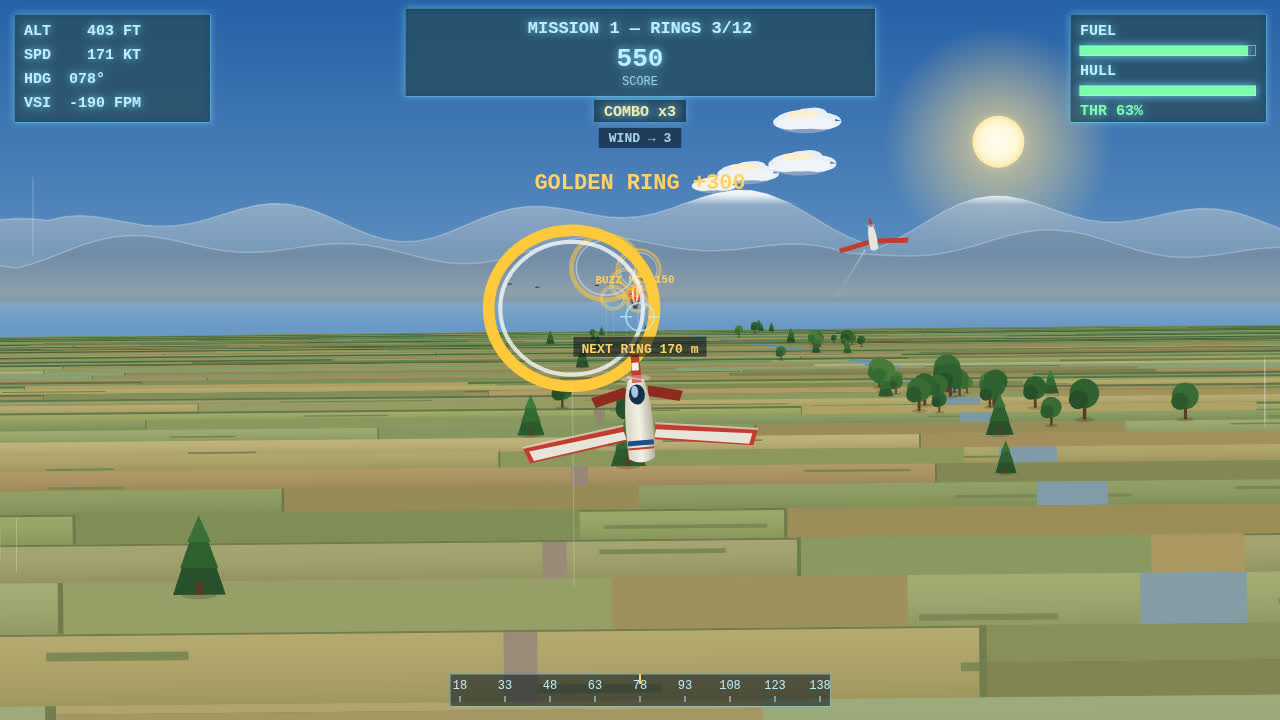
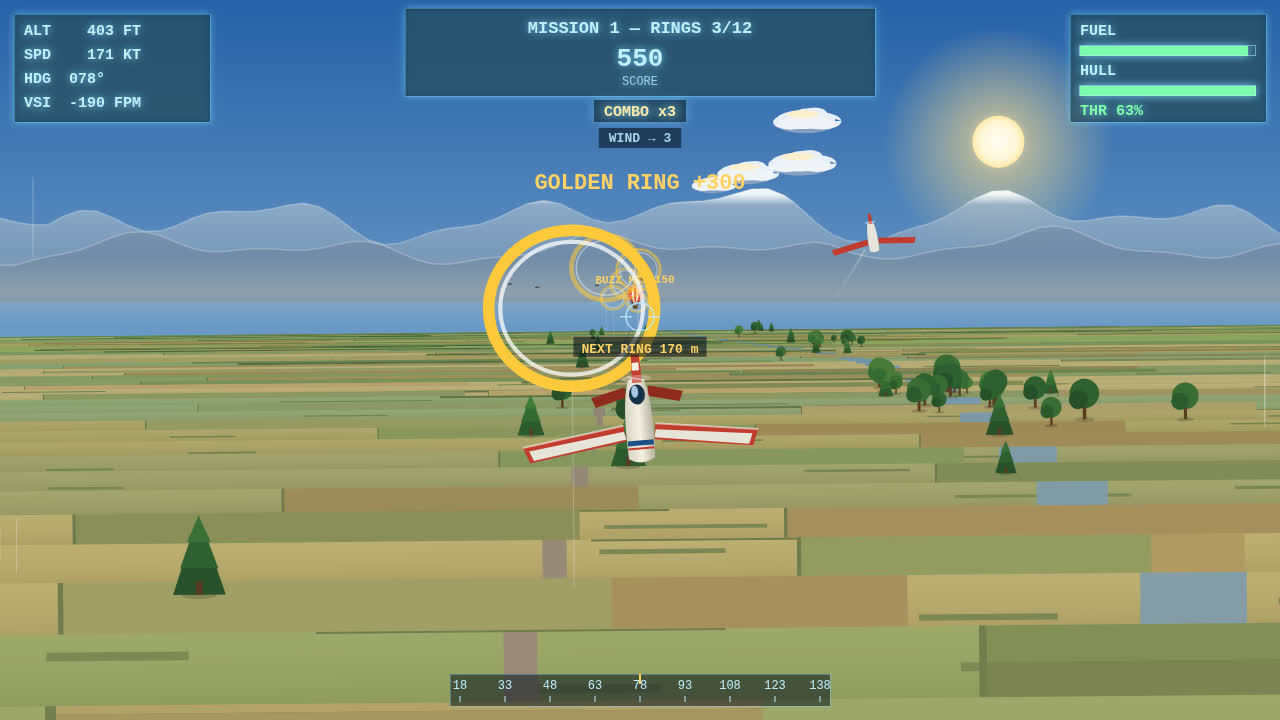
Sky Courier round 8: repo-knowledge visual fixes — runway asphalt stays cool grey (warm haze mix turned the near strip brown, like dirt), asphalt aggregate dashes texture the foreground where tyre marks diverge off-screen, repair-patch height clamped to 60 px (was a long dark slab on tall near bands

diff --git a/game/src/render.js b/game/src/render.js
@@ -92,9 +92,20 @@ export function createRenderer(canvas) {
     ctx.beginPath();
     ctx.arc(sx, sy, dusk ? 28 : 26, 0, Math.PI * 2);
     ctx.fill();
+    // Stars at dusk: the violet sky over the landing is empty — a few
+    // early stars give it depth. Seeded by index, static on screen.
+    if (dusk) {
+      for (let k = 0; k < 48; k += 1) {
+        const sx2 = hash(k * 13 + 1) * w;
+        const sy2 = hash(k * 29 + 7) * h * 0.32;
+        const sa = 0.25 + hash(k * 7 + 3) * 0.6;
+        ctx.fillStyle = `rgba(255,255,255,${sa})`;
+        ctx.fillRect(sx2, sy2, 1.4, 1.4);
+      }
+    }
   }
 
-  function drawMountains(w, h, horizonY, camZ, camX, layer) {
+  function drawMountains(w, h, horizonY, camZ, camX, layer, dusk) {
     const base = layer === 0 ? 66 : 40;
     const amp = layer === 0 ? 34 : 22;
     const speed = layer === 0 ? 0.05 : 0.11;
@@ -103,7 +114,19 @@ export function createRenderer(canvas) {
     // A vertical gradient (light crest, darker base) gives the range
     // volume instead of one flat fill.
     const mg = ctx.createLinearGradient(0, horizonY - 120, 0, horizonY + 2);
-    if (layer === 0) {
+    if (dusk) {
+      // At dusk the ridge is a dark silhouette against the orange
+      // horizon, not a pale blue wave: the day-lit colours wash out
+      // against the violet sky (the land shot's ridge read as a pale
+      // curtain, not mountains).
+      if (layer === 0) {
+        mg.addColorStop(0, 'rgba(108,96,150,0.85)');
+        mg.addColorStop(1, 'rgba(74,64,116,0.7)');
+      } else {
+        mg.addColorStop(0, 'rgba(88,78,128,0.8)');
+        mg.addColorStop(1, 'rgba(62,54,100,0.68)');
+      }
+    } else if (layer === 0) {
       mg.addColorStop(0, 'rgba(172,192,214,0.8)');
       mg.addColorStop(1, 'rgba(110,136,162,0.62)');
     } else {
@@ -115,7 +138,12 @@ export function createRenderer(canvas) {
     const ridge = [];
     for (let x = 0; x <= w; x += 16) {
       const wx = x + camZ * speed * 10 - camX * (layer === 0 ? 2 : 5);
-      const y = horizonY - base - amp * Math.abs(Math.sin(wx * 0.004) * 0.7 + Math.sin(wx * 0.011 + 2) * 0.5) - amp * 0.4 * Math.sin(wx * 0.027 + 1);
+      // A higher-frequency ripple on top of the rolling wave: the old
+      // ridge was a smooth sine, so the silhouette was two gentle
+      // humps with no character. The small secondary peaks give the
+      // range a shape — and the snow line caps them, so the caps vary
+      // instead of reading as identical white pills.
+      const y = horizonY - base - amp * Math.abs(Math.sin(wx * 0.004) * 0.7 + Math.sin(wx * 0.011 + 2) * 0.5) - amp * 0.4 * Math.sin(wx * 0.027 + 1) - amp * 0.18 * Math.sin(wx * 0.055 + 4);
       ridge.push([x, y]);
     }
     ctx.beginPath();
@@ -125,8 +153,9 @@ export function createRenderer(canvas) {
     ctx.closePath();
     ctx.fill();
     // Lit ridge edge: a faint highlight along the crest so the range
-    // has a sunlit side instead of one flat fill.
-    ctx.strokeStyle = 'rgba(255,255,255,0.25)';
+    // has a sunlit side instead of one flat fill. Warm at dusk — the
+    // setting sun lights the crest orange, not white.
+    ctx.strokeStyle = dusk ? 'rgba(255,190,140,0.3)' : 'rgba(255,255,255,0.25)';
     ctx.lineWidth = 1.5;
     ctx.beginPath();
     for (let k = 0; k < ridge.length; k += 1) {
@@ -148,9 +177,17 @@ export function createRenderer(canvas) {
       // land shots because their lower edge was a hard horizontal line).
       const snowLine = horizonY - 95;
       const sg = ctx.createLinearGradient(0, horizonY - 125, 0, snowLine);
-      sg.addColorStop(0, 'rgba(255,255,255,0.95)');
-      sg.addColorStop(0.65, 'rgba(255,255,255,0.85)');
-      sg.addColorStop(1, 'rgba(255,255,255,0)');
+      // Warm at dusk: the sunset lights the snow, so the caps read
+      // pink-gold instead of cold white against the violet sky.
+      if (dusk) {
+        sg.addColorStop(0, 'rgba(255,214,170,0.95)');
+        sg.addColorStop(0.65, 'rgba(255,196,150,0.85)');
+        sg.addColorStop(1, 'rgba(255,190,140,0)');
+      } else {
+        sg.addColorStop(0, 'rgba(255,255,255,0.95)');
+        sg.addColorStop(0.65, 'rgba(255,255,255,0.85)');
+        sg.addColorStop(1, 'rgba(255,255,255,0)');
+      }
       ctx.fillStyle = sg;
       ctx.beginPath();
       let started = false;
@@ -467,13 +504,15 @@ export function createRenderer(canvas) {
   }
 
   function overlay(w, h, lines, accent, dy = 0) {
-    ctx.fillStyle = 'rgba(6,12,22,0.3)';
+    // Lighter than round 7's 0.3/0.82: more of the world shows through
+    // the panel, so the title shot reads as a game, not a dark card.
+    ctx.fillStyle = 'rgba(6,12,22,0.26)';
     ctx.fillRect(0, 0, w, h);
     const bw = Math.min(640, w - 60);
     const bh = 54 + lines.length * 30;
     const bx = (w - bw) / 2;
     const by = (h - bh) / 2 + dy;
-    ctx.fillStyle = 'rgba(8,18,30,0.82)';
+    ctx.fillStyle = 'rgba(8,18,30,0.76)';
     ctx.fillRect(bx, by, bw, bh);
     ctx.strokeStyle = accent;
     ctx.lineWidth = 2;
@@ -525,8 +564,8 @@ export function createRenderer(canvas) {
     const dusk = state.mission === 3 ? 1 : 0;
 
     drawSky(w, h, horizonY, state.time, dusk);
-    drawMountains(w, h, horizonY, camZ, camX, 0);
-    drawMountains(w, h, horizonY, camZ, camX, 1);
+    drawMountains(w, h, horizonY, camZ, camX, 0, dusk);
+    drawMountains(w, h, horizonY, camZ, camX, 1, dusk);
     drawHaze(w, horizonY);
 
     // Bank the world a little with the roll.
@@ -550,7 +589,12 @@ export function createRenderer(canvas) {
         const bandH = Math.abs(prevY - y) + 1.5;
         // A cross-road near the village, drawn as a full-width grey band.
         const crossRoad = !onRunway && z >= 5740 && z <= 5770;
-        const rawField = FIELDS[Math.floor(hash(i + Math.floor(camZ / SEG_LEN)) * FIELDS.length)];
+        // Field colour groups three consecutive segments: per-segment
+        // colours made every band edge a visible colour step, so the
+        // ground read as stacked stripes. Three segments (75 m) share
+        // one base colour; the patchwork still varies per band.
+        const seg = i + Math.floor(camZ / SEG_LEN);
+        const rawField = FIELDS[Math.floor(hash(Math.floor(seg / 3)) * FIELDS.length)];
         // Mute every band toward one common olive tone: the bands still
         // vary, but they stop alternating loudly enough to read as
         // stacked paint stripes. Rounds 3 and 5 dressed the stripes
@@ -564,10 +608,12 @@ export function createRenderer(canvas) {
         ctx.fillStyle = mix3(col, SKY_HORIZON, haze * 0.7);
         ctx.fillRect(-40, topY, w + 80, bandH);
         // Shade each band top-to-bottom so the ground has depth instead
-        // of reading as flat stacked paint.
+        // of reading as flat stacked paint — kept subtle, because the
+        // dark bottom of one band against the light top of the next
+        // is itself a stripe edge.
         const bg = ctx.createLinearGradient(0, topY, 0, topY + bandH);
-        bg.addColorStop(0, 'rgba(255,255,255,0.05)');
-        bg.addColorStop(1, 'rgba(0,0,0,0.10)');
+        bg.addColorStop(0, 'rgba(255,255,255,0.03)');
+        bg.addColorStop(1, 'rgba(0,0,0,0.07)');
         ctx.fillStyle = bg;
         ctx.fillRect(-40, topY, w + 80, bandH);
         // Plough furrows: short dashes across the field, so the ground
@@ -597,9 +643,12 @@ export function createRenderer(canvas) {
             ctx.fillStyle = mix3(ROAD_COL, SKY_HORIZON, haze * 0.7);
             ctx.fillRect(lx - lw / 2, topY, lw, bandH);
           }
+          // A hedgerow segment, not a frame-wide line: the old full-width
+          // 2 px line at every band top drew the stripe edges itself.
           if (hash(i * 29 + 5) < 0.35) {
+            const hx = hash(i * 31 + 11) * w * 0.6;
             ctx.fillStyle = mix3([42, 82, 46], SKY_HORIZON, haze * 0.7);
-            ctx.fillRect(-40, topY, w + 80, 2);
+            ctx.fillRect(hx, topY, w * 0.32, 2);
           }
         }
         // Field patchwork: two or three irregular plots per band, each a
@@ -672,9 +721,25 @@ export function createRenderer(canvas) {
         if (onRunway) {
           const cx = w / 2 - (camDepth * camX) / d;
           const half = (camDepth * RUNWAY.halfWidth) / d;
-          // Asphalt strip.
-          ctx.fillStyle = mix3([88, 88, 96], SKY_HORIZON, haze * 0.7);
+          // Asphalt strip — mixed toward cool grey, not the warm
+          // horizon: the warm mix turned the near runway brown, like
+          // dirt, not asphalt (the land shot's foreground slab).
+          ctx.fillStyle = mix3([88, 88, 96], [150, 158, 170], haze * 0.25);
           ctx.fillRect(cx - half, topY, half * 2, bandH);
+          // Asphalt aggregate: short subtle dashes across the strip,
+          // seeded per band, so the near asphalt has texture even where
+          // the tyre marks have diverged off-screen and the centreline
+          // is in a gap. Placed inside the VISIBLE part of the band —
+          // a tall near band runs far below the frame.
+          if (bandH > 8) {
+            const visH = Math.min(bandH, h - topY);
+            ctx.fillStyle = 'rgba(52,52,60,0.16)';
+            for (let k = 0; k < 5; k += 1) {
+              const ax = cx - half + hash(i * 97 + k * 19) * half * 2;
+              const aw = Math.min(26, Math.max(4, half * 0.06));
+              ctx.fillRect(ax, topY + visH * (0.15 + k * 0.17), aw, Math.min(6, Math.max(1.5, bandH * 0.03)));
+            }
+          }
           // Tyre marks: two dark wheel tracks down the strip, so the
           // asphalt has texture even at close range, where the strip is
           // wider than the screen and nothing else reads on it.
@@ -726,8 +791,12 @@ export function createRenderer(canvas) {
               // is wider than the screen, so an unclamped patch becomes
               // a giant dark rectangle on the foreground asphalt.
               const rw2 = Math.min(180, half * (0.2 + hash(i * 37 + k * 13) * 0.3));
+              // Height clamped in screen pixels too: on a tall near
+              // band, bandH*0.25 is over 100 px and the patch reads as
+              // a long dark slab down the foreground.
+              const ph = Math.min(bandH * 0.25, 60);
               ctx.fillStyle = 'rgba(60,60,70,0.18)';
-              ctx.fillRect(rx2, topY + bandH * (0.2 + k * 0.4), rw2, bandH * 0.25);
+              ctx.fillRect(rx2, topY + bandH * (0.2 + k * 0.4), rw2, ph);
             }
           }
           // Threshold bars at the start of the strip: eight white bars
@@ -746,9 +815,10 @@ export function createRenderer(canvas) {
           const shoulderW = Math.max(2, (camDepth * 10) / d);
           ctx.fillStyle = mix3([126, 162, 100], SKY_HORIZON, haze * 0.7);
           ctx.fillRect(cx - half - shoulderW, topY, shoulderW, bandH);
-          // Taxiway beside the strip, and amber edge lights down both sides.
+          // Taxiway beside the strip — cool grey like the asphalt, not
+          // the warm horizon mix (it read brown next to the strip).
           const taxiW = Math.max(2, (camDepth * 12) / d);
-          ctx.fillStyle = mix3([70, 70, 78], SKY_HORIZON, haze * 0.7);
+          ctx.fillStyle = mix3([70, 70, 78], [130, 138, 150], haze * 0.25);
           ctx.fillRect(cx + half, topY, taxiW, bandH);
           const midY = (y + prevY) / 2;
           const lr = Math.min(6, Math.max(1, half * 0.05));
@@ -1114,7 +1184,9 @@ export function createRenderer(canvas) {
         ctx.globalAlpha = wm.alpha;
         ctx.translate(sx, sy);
         ctx.rotate(wm.roll);
-        const ws = 0.3 * (Math.min(w, h) / 720);
+        // A touch bigger than round 7: at 0.3 she read as a red cross,
+        // not a plane, in the play shot.
+        const ws = 0.36 * (Math.min(w, h) / 720);
         ctx.scale(ws, ws);
         ctx.fillStyle = '#c23b2e';
         ctx.beginPath();
